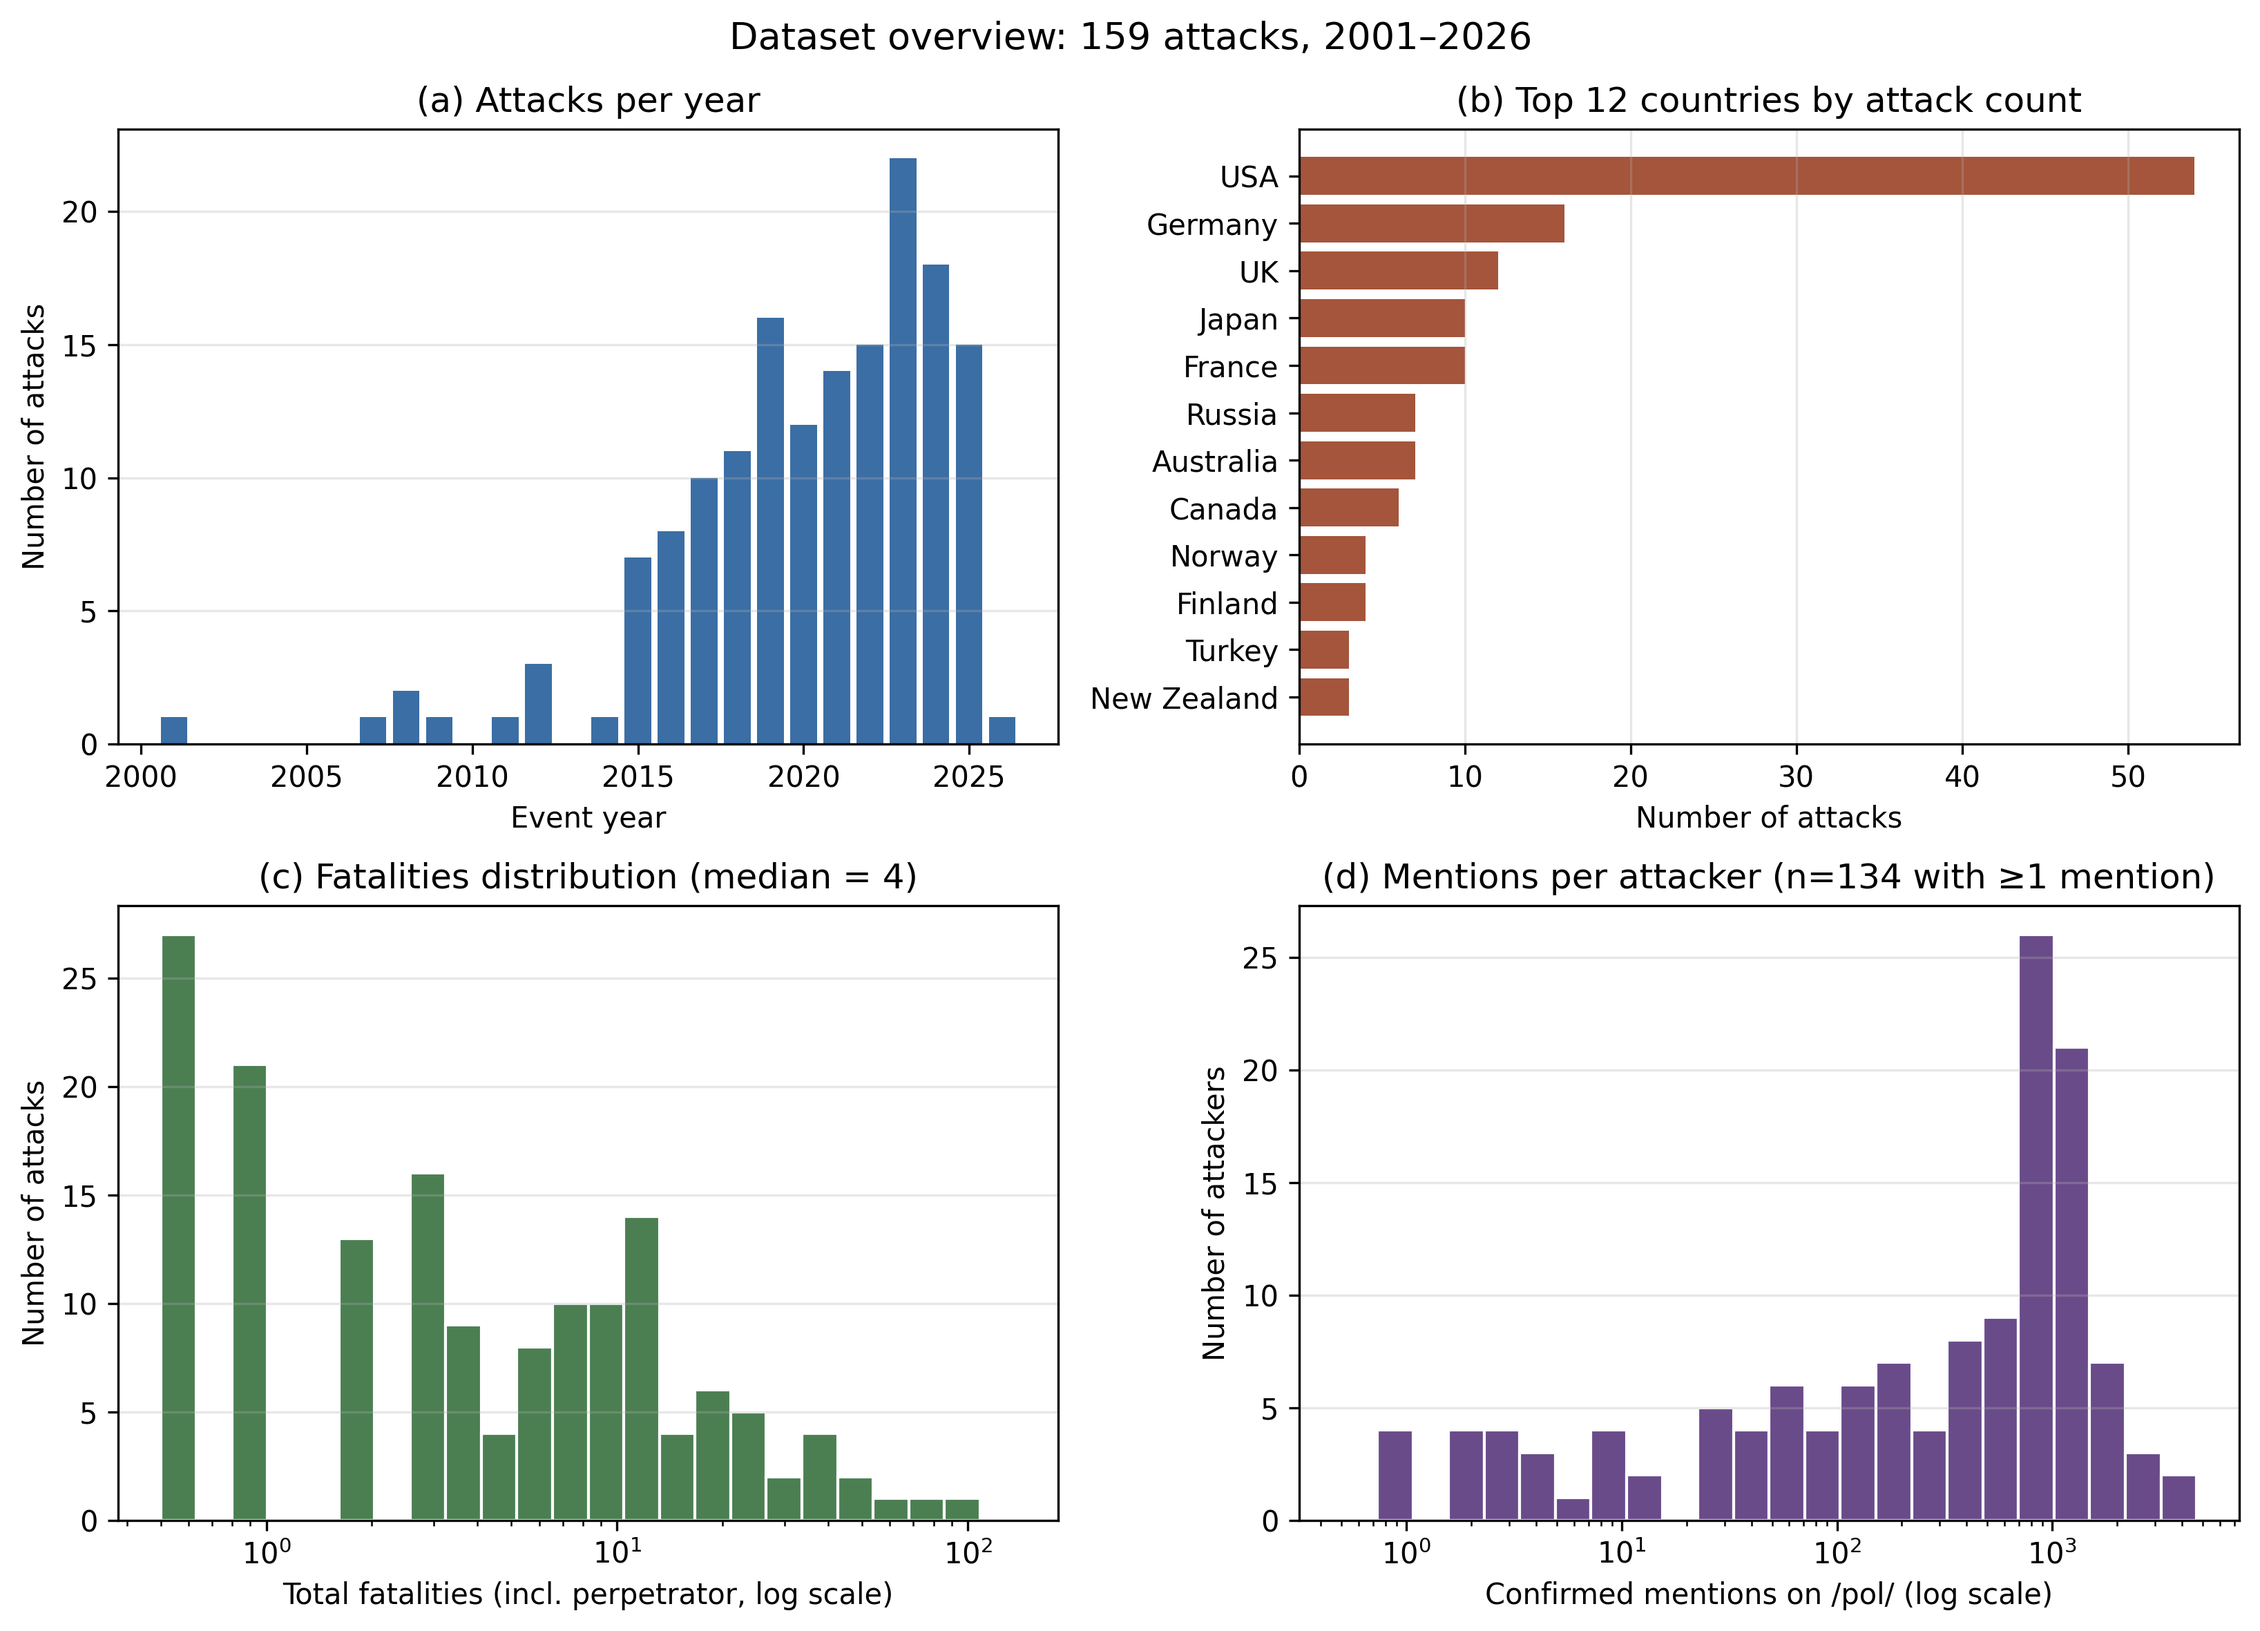
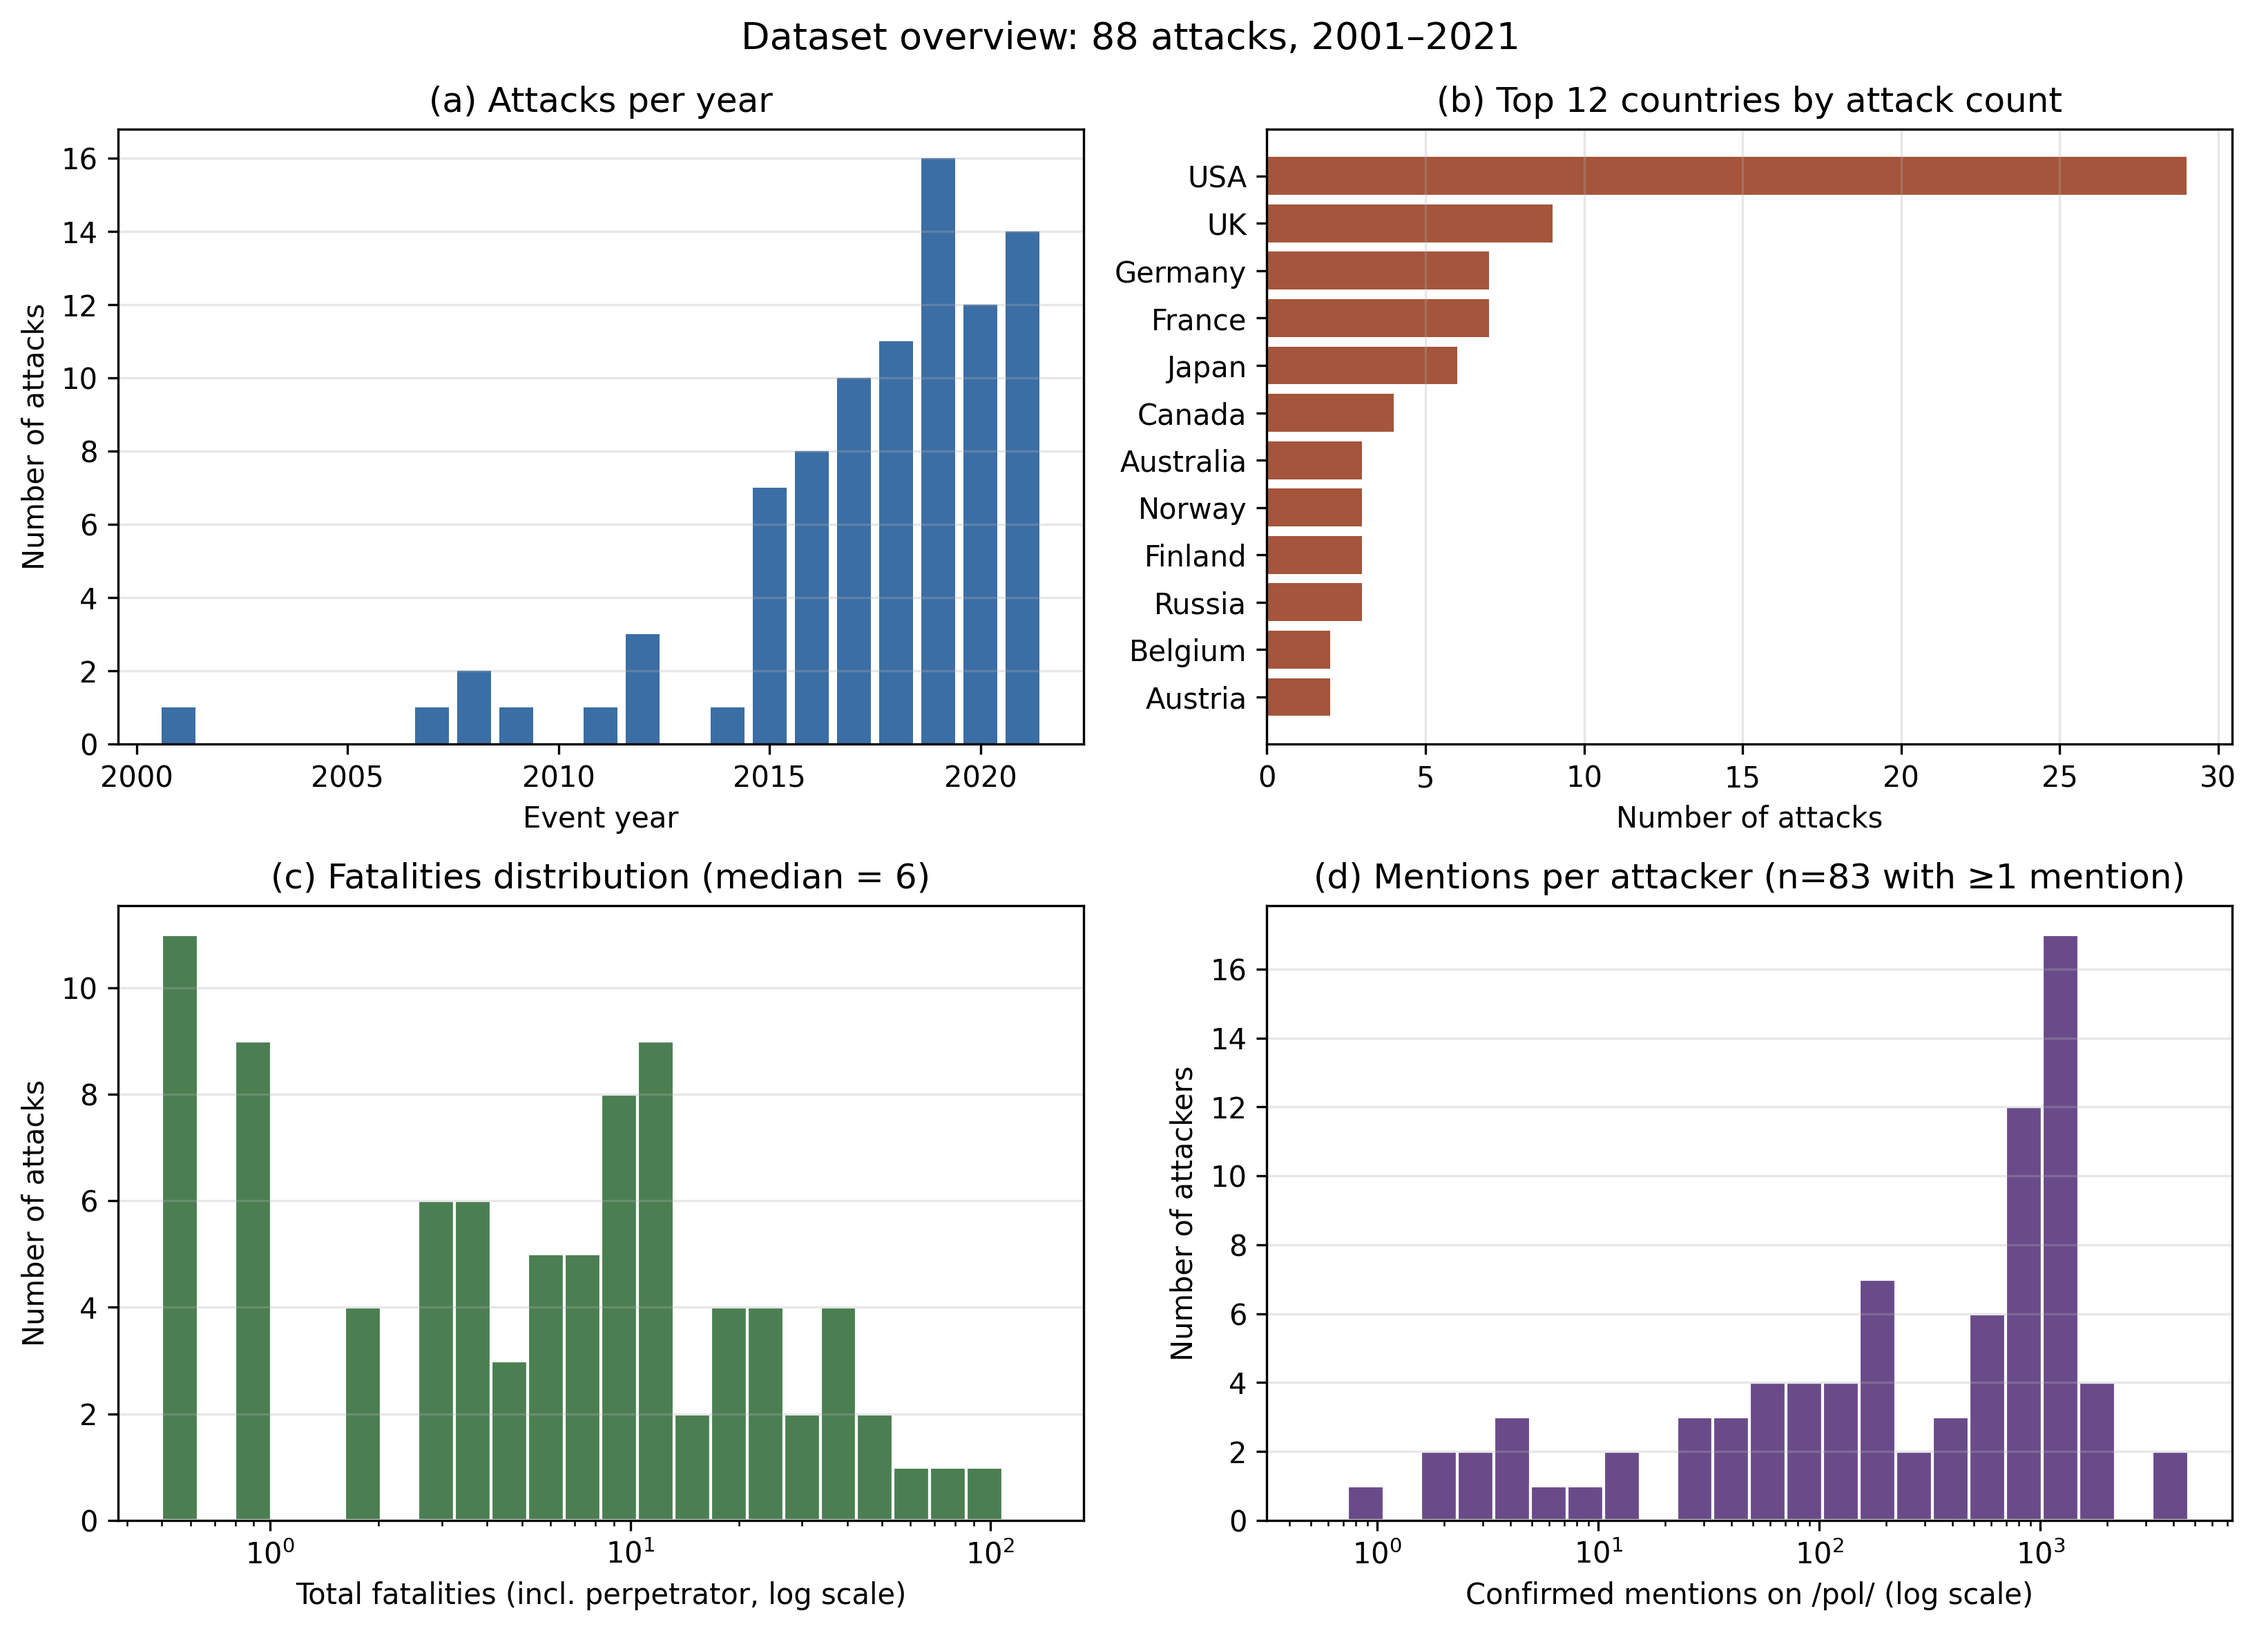
Restrict descriptive figures to in-corpus attacks (≤2021)
- scripts/make_descriptive_figures.py: filter cases to event_year <=
  CORPUS_END_YEAR (2021) in both dataset_overview and saints_score_ranked;
  post-corpus attackers cannot be scored from in-corpus mentions, so they
  are excluded from descriptive visualizations.
- Regenerated out/figures/dataset_overview.png and
  out/figures/saints_score_ranked.png (88 in-corpus cases; 71 post-2021
  attacks dropped).
- paper draft/main.tex: updated fig:dataset-overview paragraph and
  fig:ranked caption to reflect corpus-window restriction and new
  counts (median fatalities = 6; 83/88 attackers with ≥1 mention;
  median mentions ≈ 475).

diff --git a/paper draft/main.tex b/paper draft/main.tex
@@ -133,12 +133,12 @@ For each case, the dataset records up to 77 variables spanning several categorie
     \label{tab:database}
 \end{table}
 
-Figure~\ref{fig:dataset-overview} summarizes the dataset along four dimensions. The temporal distribution (panel a) is concentrated in the 2010s and early 2020s, reflecting both the period of heightened extreme-right mobilization in OECD countries and the availability of detailed public records for recent events. The geographic distribution (panel b) is dominated by the United States, with a substantial European tail (Germany, the United Kingdom, France) and smaller contributions from Japan, Russia, Australia, and Canada. Panel (c) shows that fatality counts are right-skewed: the median attack produces four fatalities, but a small number of high-casualty events (e.g., Breivik, Pulse, Christchurch, Las Vegas) sit in the long tail. Panel (d) shows the distribution of confirmed /pol/ mentions per attacker from the detection pipeline: of the 157 attackers for whom a mention search was feasible, 134 generate at least one confirmed mention and the median attacker accumulates roughly 500 mentions, but the distribution spans nearly four orders of magnitude. This heterogeneity in community attention is precisely the variation the Saints Score is designed to quantify.
+Figure~\ref{fig:dataset-overview} summarizes the 88 attacks that occurred on or before the corpus end year of 2021; attacks that postdate the corpus are excluded from the descriptive figures because no in-corpus mention evidence is available for them. The temporal distribution (panel a) is concentrated in the 2010s and early 2020s, reflecting both the period of heightened extreme-right mobilization in OECD countries and the availability of detailed public records for recent events. The geographic distribution (panel b) is dominated by the United States, with a substantial European tail (Germany, the United Kingdom, France) and smaller contributions from Japan, Russia, Australia, and Canada. Panel (c) shows that fatality counts are right-skewed: the median attack produces six fatalities, but a small number of high-casualty events (e.g., Breivik, Pulse, Christchurch, Las Vegas) sit in the long tail. Panel (d) shows the distribution of confirmed /pol/ mentions per attacker from the detection pipeline: among the 88 in-corpus attackers, 83 generate at least one confirmed mention and the median attacker accumulates roughly 475 mentions, but the distribution spans nearly four orders of magnitude. This heterogeneity in community attention is precisely the variation the Saints Score is designed to quantify.
 
 \begin{figure}[htbp]
     \centering
     \includegraphics[width=\linewidth]{figures/dataset_overview.png}
-    \caption{Descriptive overview of the mass-casualty attack dataset and the /pol/ mention corpus. (a) Attacks per year. (b) Top 12 countries by attack count. (c) Fatality distribution (log scale). (d) Confirmed /pol/ mentions per attacker (log scale).}
+    \caption{Descriptive overview of the mass-casualty attack dataset and the /pol/ mention corpus, restricted to attacks occurring on or before the 2021 corpus end date. (a) Attacks per year. (b) Top 12 countries by attack count. (c) Fatality distribution (log scale). (d) Confirmed /pol/ mentions per attacker (log scale).}
     \label{fig:dataset-overview}
 \end{figure}
 
@@ -334,7 +334,7 @@ Figure~\ref{fig:ranked} ranks the top 30 attackers by na\"ive Saints Score and o
 \begin{figure}[htbp]
     \centering
     \includegraphics[width=0.9\linewidth]{figures/saints_score_ranked.png}
-    \caption{Top 30 attackers by na\"ive Saints Score (blue bars), with Bayesian posterior means and 89\% HDIs overlaid (red points and whiskers). The Bayesian estimates shrink sharply toward zero, and all HDIs include zero, illustrating the conservatism of the measurement model under the current indicator set.}
+    \caption{Top 30 attackers by na\"ive Saints Score (blue bars), with Bayesian posterior means and 89\% HDIs overlaid (red points and whiskers). Restricted to attacks occurring on or before the 2021 corpus end date. The Bayesian estimates shrink sharply toward zero, and all HDIs include zero, illustrating the conservatism of the measurement model under the current indicator set.}
     \label{fig:ranked}
 \end{figure}
 

diff --git a/scripts/make_descriptive_figures.py b/scripts/make_descriptive_figures.py
@@ -18,6 +18,11 @@ ROOT = Path(__file__).resolve().parents[1]
 OUT = ROOT / "out" / "figures"
 OUT.mkdir(parents=True, exist_ok=True)
 
+# The /pol/ corpus spans 2013–2021. Attacks after 2021 cannot be meaningfully
+# analyzed for in-corpus mentions, so they are excluded from descriptive
+# visualizations (they remain in the raw case dataset).
+CORPUS_END_YEAR = 2021
+
 plt.rcParams.update(
     {
         "figure.dpi": 150,
@@ -33,6 +38,10 @@ plt.rcParams.update(
 def dataset_overview() -> Path:
     cases = pl.read_csv(ROOT / "out" / "cases.csv", infer_schema_length=10000)
     naive = pl.read_csv(ROOT / "out" / "scores" / "saints_naive.csv")
+
+    cases = cases.filter(pl.col("event_year") <= CORPUS_END_YEAR)
+    in_corpus_ids = set(cases["case_id"].to_list())
+    naive = naive.filter(pl.col("attacker_id").is_in(in_corpus_ids))
 
     fig, axes = plt.subplots(2, 2, figsize=(11, 8))
 
@@ -103,6 +112,12 @@ def dataset_overview() -> Path:
 def saints_score_ranked(top_n: int = 30) -> Path:
     naive = pl.read_csv(ROOT / "out" / "scores" / "saints_naive.csv")
     bayes = pl.read_csv(ROOT / "out" / "scores" / "saints_bayes.csv")
+    cases = pl.read_csv(ROOT / "out" / "cases.csv", infer_schema_length=10000)
+
+    in_corpus_ids = set(
+        cases.filter(pl.col("event_year") <= CORPUS_END_YEAR)["case_id"].to_list()
+    )
+    naive = naive.filter(pl.col("attacker_id").is_in(in_corpus_ids))
 
     df = naive.join(bayes, on="attacker_id", how="left").sort(
         "saints_naive", descending=True
